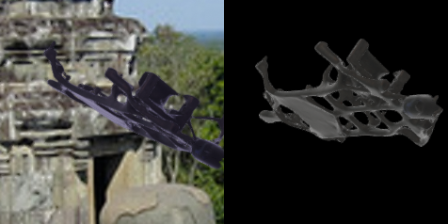
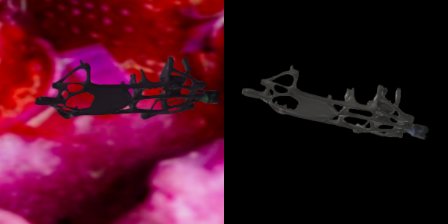
Minor changes

diff --git a/RefinedPoseEstimation/LoadDataset.py b/RefinedPoseEstimation/LoadDataset.py
@@ -159,7 +159,7 @@ class Dataset(torch.utils.data.Dataset):
 		try:
 			path = MAIN_DIR_PATH + "/Dataset/" + self.subset + "/"
 			self.index = index
-			image_real = self.io.load_numpy_file(path + "ImageBackground/" + "data_{}.np".format(index))
+			real_image = self.io.load_numpy_file(path + "ImageBackground/" + "data_{}.np".format(index))
 
 			json_data = self.io.load_json_file(path + "Pose/" + "data_{}.json".format(index))
 			
@@ -177,7 +177,7 @@ class Dataset(torch.utils.data.Dataset):
 			trans_matrix_real = self.transformations.get_transformation_matrix_from_pose(real_pose)
 			trans_matrix_rendered = self.transformations.get_transformation_matrix_from_pose(rendered_pose)
 			
-			image_real = self.crop_and_resize(image_real, rendered_bbox)
+			real_image = self.crop_and_resize(real_image, rendered_bbox)
 			#cv2.imshow("images", np.concatenate([image_real, rendered_image]))
 			#cv2.waitKey(0)
 			"""print(real_pose["TransX"] - rendered_pose["TransX"], real_pose["TransY"] - rendered_pose["TransY"], real_pose["TransZ"] - rendered_pose["TransZ"])
@@ -200,11 +200,11 @@ class Dataset(torch.utils.data.Dataset):
 			refinement_image1 = self.crop_and_resize(refinement_image1, bbox_crop)"""
 				
 			if self.data_augmentation:
-				image_real = self.data_augmentation(image=image_real)["image"]
-			image_tensor = NormalizeToTensor(image=image_real)["image"]
-			refinement_image_tensor1 = NormalizeToTensor(image=rendered_image)["image"]
+				real_image = self.data_augmentation(image=real_image)["image"]
+			image_tensor = NormalizeToTensor(image=real_image)["image"]
+			rendered_image_tensor = NormalizeToTensor(image=rendered_image)["image"]
 
-			return image_tensor, refinement_image_tensor1, \
+			return image_tensor, rendered_image_tensor, \
 				torch.tensor(trans_matrix_real, dtype=torch.float32), \
 				torch.tensor(trans_matrix_rendered, dtype=torch.float32)
 		except Exception as e:

diff --git a/RefinedPoseEstimation/TrainModel.py b/RefinedPoseEstimation/TrainModel.py
@@ -19,7 +19,7 @@ warnings.filterwarnings("ignore")
 
 
 def one_epoch(pose_refiner_model, optimizer, dataloader, loss_function, is_training=True, epoch=0):
-	pose_refiner_model.eval() if is_training else pose_refiner_model.eval()
+	pose_refiner_model.train() if is_training else pose_refiner_model.eval()
 	epoch_loss_rotation = 0
 	epoch_loss_translation_z = 0
 	epoch_loss_translation_xy = 0
@@ -54,8 +54,8 @@ def one_epoch(pose_refiner_model, optimizer, dataloader, loss_function, is_train
 				loss = loss_total
 				epoch_loss_rotation += loss_total.item()
     
-			#loss.backward()
-			#optimizer.step()
+			loss.backward()
+			optimizer.step()
 
 			torch.cuda.empty_cache()
 
@@ -126,7 +126,7 @@ def main(pose_refiner_model, optimizer, training_dataloader, validation_dataload
 		if valid_l_rotation + valid_l_xy + valid_l_z < smallest_loss:
 			smallest_loss = valid_l_rotation + valid_l_xy + valid_l_z
 		print("SAVING MODEL")
-		torch.save(pose_refiner_model.state_dict(), "{}.pt".format("./RefinedPoseEstimation/TrainedModels/RefinedPoseEstimationModelPureRotation"))
+		torch.save(pose_refiner_model.state_dict(), "{}.pt".format("./TrainedModels/RefinedPoseEstimationModelPrijection2d"))
 		print("MODEL WAS SUCCESSFULLY SAVED!")
 
 
@@ -136,7 +136,7 @@ if __name__ == "__main__":
  
 	dataset_renderer = DatasetRenderer()
 	pose_refiner_model = PoseRefinementNetwork().to(DEVICE).apply(init_weights)
-	pose_refiner_model.load_state_dict(torch.load("./RefinedPoseEstimation/TrainedModels/RefinedPoseEstimationModelPureRotation.pt", map_location="cpu"))
+	#pose_refiner_model.load_state_dict(torch.load("./RefinedPoseEstimation/TrainedModels/RefinedPoseEstimationModelPureRotation.pt", map_location="cpu"))
 	
 	io = IOUtils()
 	point_cloud = io.load_numpy_file(MAIN_DIR_PATH + "/DatasetRenderer/Models3D/Chassis/SparcePointCloud5k.npy")

diff --git a/Utils/ConvUtils.py b/Utils/ConvUtils.py
@@ -18,7 +18,7 @@ class TransposeConvBnActiv(nn.Module):
 		if self.apply_bn:
 			self.BN = nn.BatchNorm2d(num_features=out_channels)
 		if self.apply_relu:
-			self.Activation = nn.ReLU(inplace=True)
+			self.Activation = nn.SiLU(inplace=True)
 
 	def forward(self, x):
 
@@ -51,7 +51,7 @@ class ConvBnActiv(nn.Module):
 		if apply_bn:
 			self.BN = nn.BatchNorm2d(num_features=out_channels)
 		if apply_activation:
-			self.Activation = nn.ReLU(inplace=True) if activ_type == "silu" else nn.PReLU(num_parameters=out_channels)
+			self.Activation = nn.SiLU(inplace=True) if activ_type == "silu" else nn.PReLU(num_parameters=out_channels)
 
 	def forward(self, x):
 
@@ -109,7 +109,7 @@ class DepthWiseConvResidualBlock(nn.Module):
 
 
 class ResidualBlock(nn.Module):
-	def __init__(self, in_channels, out_channels, apply_activ=False):
+	def __init__(self, in_channels, out_channels, apply_activ=True):
 		super(ResidualBlock, self).__init__()
 		self.apply_activ = apply_activ
   
@@ -117,7 +117,7 @@ class ResidualBlock(nn.Module):
 		self.Conv2 = ConvBnActiv(in_channels=in_channels, out_channels=out_channels, apply_activation=False)
   
 		if self.apply_activ:
-			self.Activation = nn.ReLU(inplace=True)
+			self.Activation = nn.SiLU(inplace=True)
 
 	def forward(self, x):
 		residual = x

diff --git a/Utils/DataAugmentationUtils.py b/Utils/DataAugmentationUtils.py
@@ -3,15 +3,15 @@ from albumentations.pytorch import ToTensorV2
 import cv2
 
 PoseEstimationAugmentation = A.Compose([
-		A.ChannelShuffle(p=0.5),
+		A.ChannelShuffle(p=0.8),
 
-		A.ColorJitter(brightness=(0.75, 1.75), contrast=(0.5, 2), saturation=(1, 5), hue=(0, 0), always_apply=False, p=0.5),
+		A.ColorJitter(brightness=(0.75, 1.75), contrast=(0.5, 2), saturation=(1, 5), hue=(0, 0), always_apply=False, p=0.8),
 		A.OneOf([
 			A.GaussNoise(var_limit=(25.0, 40.0), mean=0, per_channel=True, always_apply=False, p=1),
 			A.MultiplicativeNoise(multiplier=(0.925, 1.075), per_channel=True, elementwise=True, always_apply=False, p=1),
 			A.ISONoise(color_shift=(0.03, 0.06), intensity=(0.1, 0.4), always_apply=False, p=1)
 
-		], p=0.15),
+		], p=0.25),
 ])
 
 

diff --git a/RefinedPoseEstimation/CONFIG.py b/RefinedPoseEstimation/CONFIG.py
@@ -12,10 +12,10 @@ sys.path.insert(1, CURR_DIR_PATH)
 CUDA_DEVICE = 2
 DEVICE = "mps" if getattr(torch, 'has_mps', False) else CUDA_DEVICE if torch.cuda.is_available() else "cpu"
 LR = 0.0002
-BATCH_SIZE = 1
-NUM_DATA = {"Training": 32, "Validation": 2}
+BATCH_SIZE = 256
+NUM_DATA = {"Training": 10000, "Validation": 2000}
 NUM_EPOCHS = 1000
-USE_AUGMENTATION = False
+USE_AUGMENTATION = True
 PROJECTION_TYPE_LOSS = "2D"
 DISENTANGLED_LOSS = True
 MODEL_NAME = ""

diff --git a/RefinedPoseEstimation/LossFunction.py b/RefinedPoseEstimation/LossFunction.py
@@ -57,7 +57,7 @@ class ProjectionLoss(nn.Module):
         T_updated[..., :2, -1] = updated_xy
         T_updated[..., 2:3, -1] = updated_z
         
-        return self.compute_projection_loss(T_target, T_updated, vis=True)
+        return self.compute_projection_loss(T_target, T_updated, vis=False)
     
     
     def visualize_projection(self, xy_projected_prediction, xy_projected_target):

diff --git a/RefinedPoseEstimation/GenerateRefinementPoses.py b/RefinedPoseEstimation/GenerateRefinementPoses.py
@@ -93,9 +93,9 @@ def generate_refinement_image(subset, index):
         
 
 def generate_refinements_dataset():
-    for index in range(32):
+    for index in range(10000):
         generate_refinement_image(subset='Training', index=index)
-    for index in range(4):
+    for index in range(2000):
         generate_refinement_image(subset='Validation', index=index)
 
 
